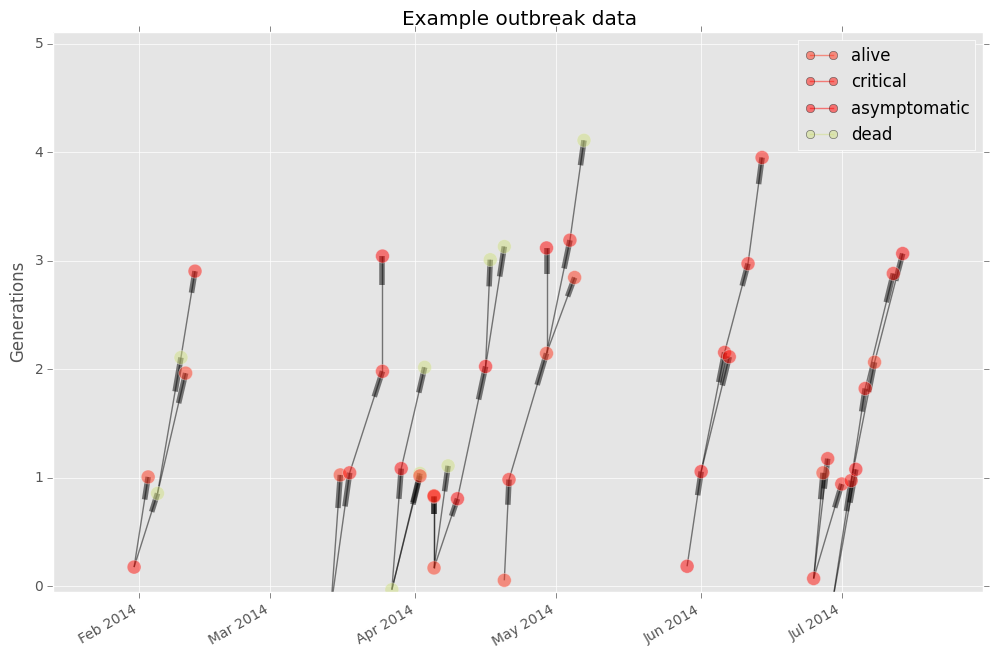
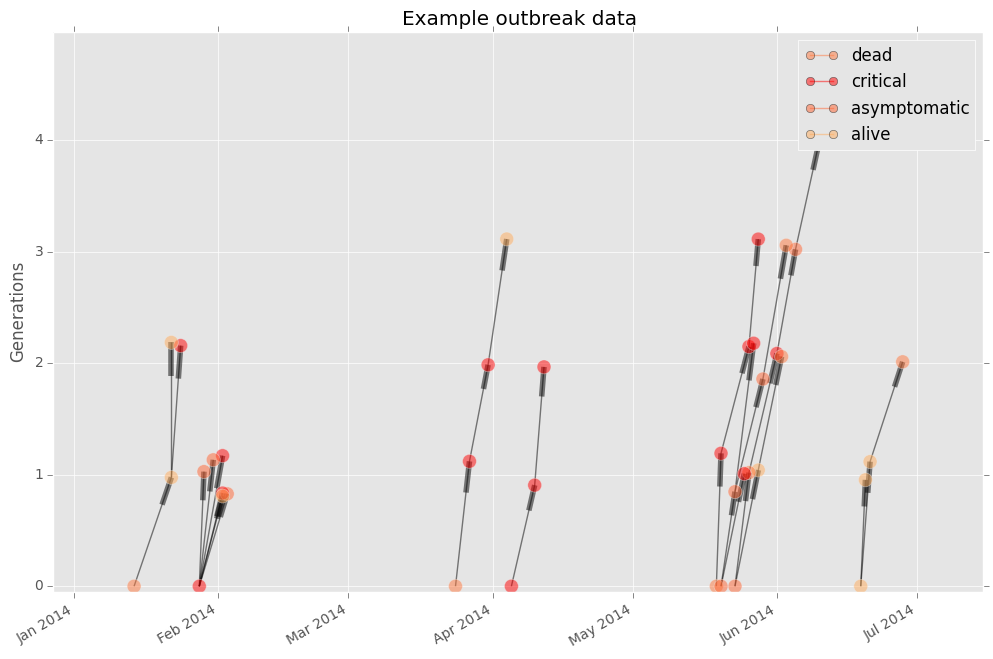
minor updates

diff --git a/epipy/case_tree.py b/epipy/case_tree.py
@@ -137,10 +137,13 @@ def _layout(G):
     for i in G.nodes():
         xcord = G.node[i]['pltdate']
         generation = G.node[i]['generation']
-        jittery = np.random.uniform(-.2, .2, 1)
-        generation = generation + jittery
+        if generation == 0:
+            ygen = generation
+        else:
+            jittery = np.random.uniform(-.2, .2, 1)
+            ygen = generation + jittery
         
-        positions.append([xcord, generation])
+        positions.append([xcord, ygen])
 
     return dict(zip(G, np.array(positions)))
 

diff --git a/docs/examples.py b/docs/examples.py
@@ -72,7 +72,6 @@ fig.savefig(os.path.join(dir, '../figs/test_checkerboard.png'), bbox_inches='tig
 mers_df = pd.read_csv(os.path.join(dir, '../data/mers_line_list.csv'))
 
 # Data cleaning
-mers_df['Case #'] = mers_df['Case #'].replace(np.nan, 'single')
 mers_df['onset_date'] = mers_df['Approx onset date'].map(epipy.date_convert)
 mers_df['report_date'] = mers_df['Approx reporting date'].map(epipy.date_convert)
 mers_df['dates'] = mers_df['onset_date'].combine_first(mers_df['report_date'])

diff --git a/epipy/basics.py b/epipy/basics.py
@@ -33,7 +33,6 @@ def group_clusters(df, cluster_id, date_col):
         be a basic string like "hospital cluster A"
     date_col = onset or report date column
     '''
-    clusters = df[df[cluster_id] != 'single']
     clusters = clusters[clusters[date_col].notnull()]
     groups = clusters.groupby(clusters[cluster_id])
 
